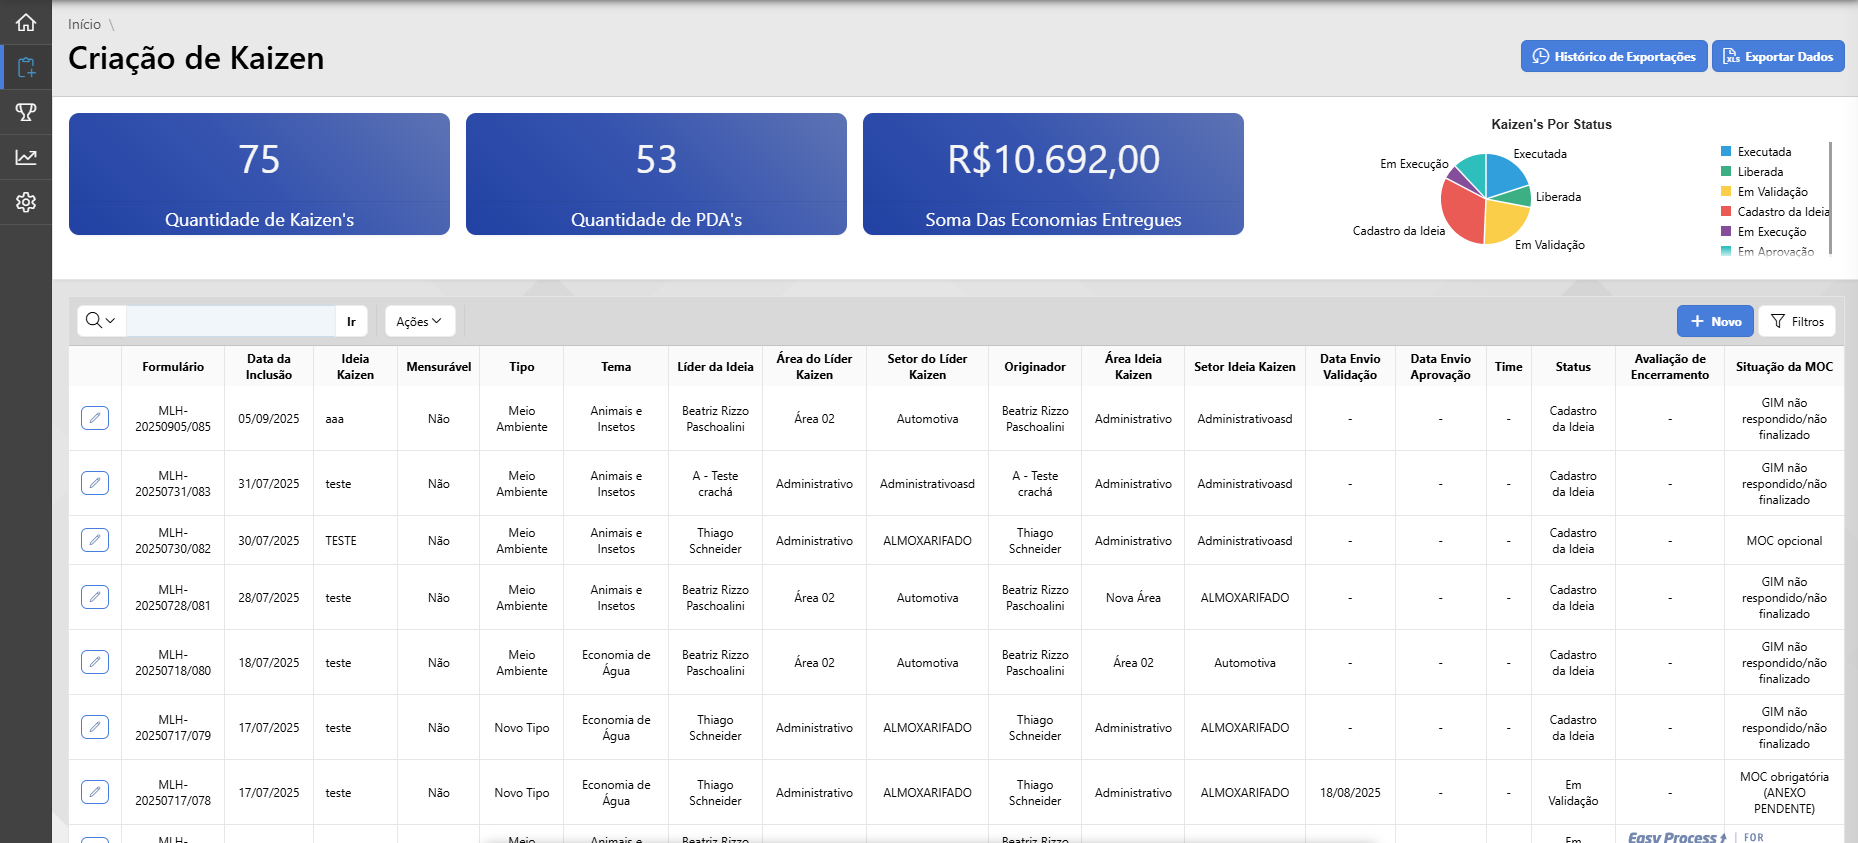
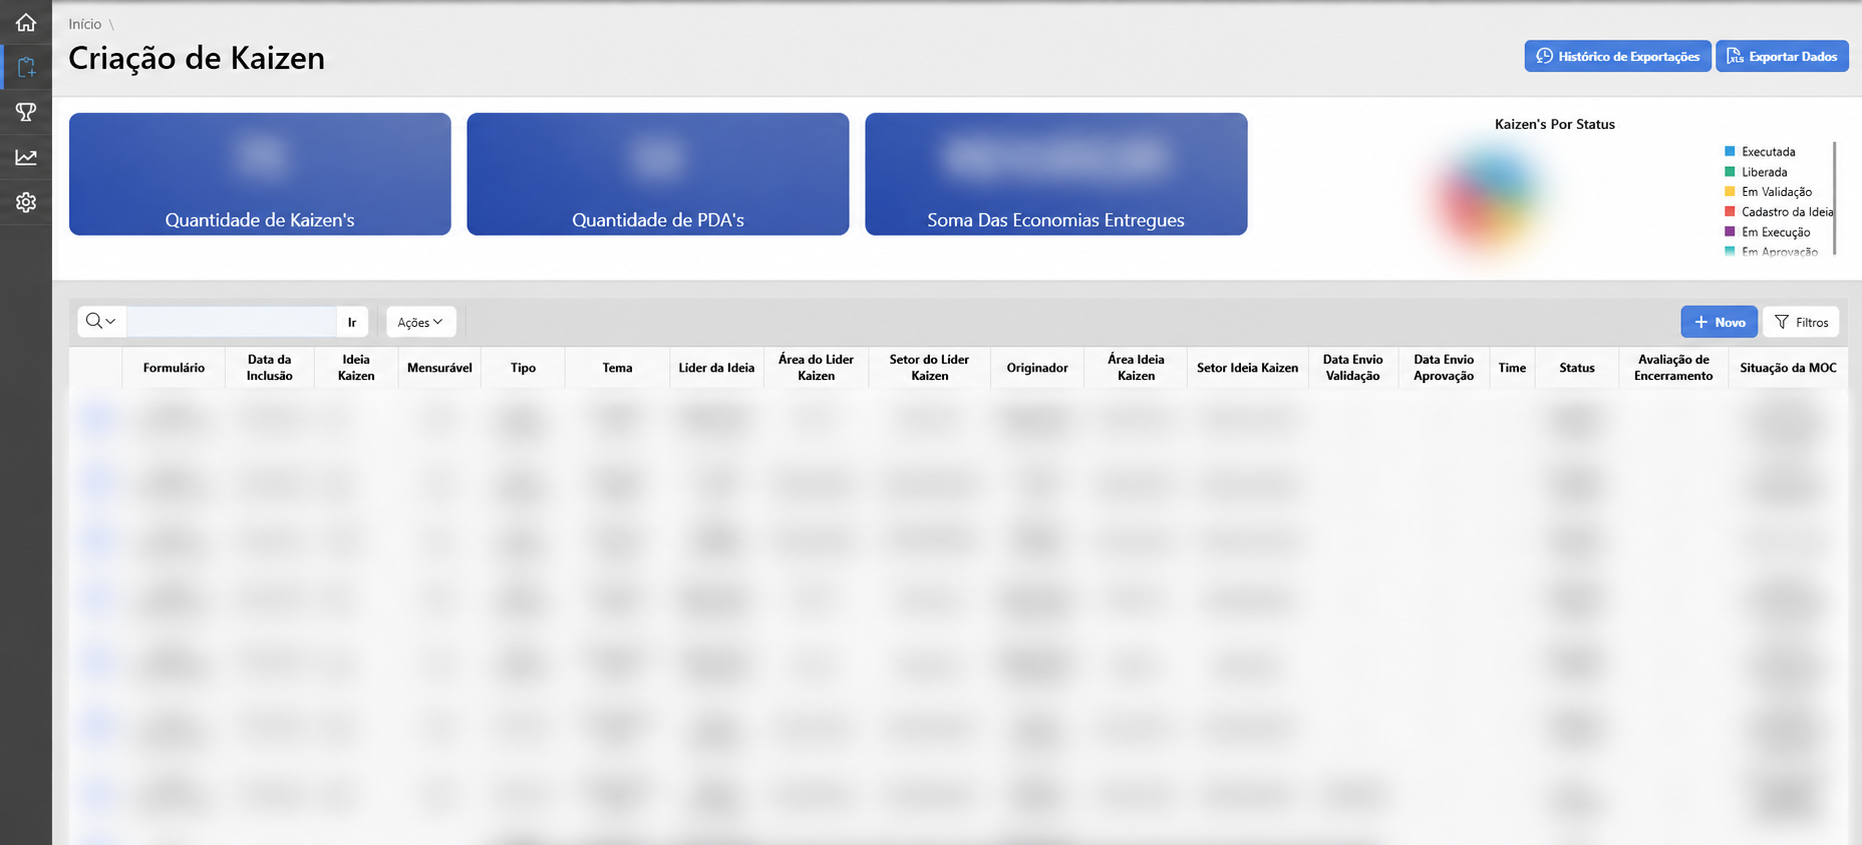
Ajustes para sensura de dados no projeto Kaizen

diff --git a/components/project-data.ts b/components/project-data.ts
@@ -17,15 +17,15 @@ export const projects: Project[] = [
     title: 'Kaizen',
     category: 'Melhoria contínua',
     description: 'Do cadastro de uma ideia ao acompanhamento da execução: gestão de melhorias em uma aplicação Oracle APEX.',
-    image: '/kaizen-screenshots/kaizen-dashboard-real.png',
+    image: '/kaizen-screenshots/kaizen-dashboard-real.png?v=privacy-1',
     technologies: ['Oracle APEX', 'PL/SQL', 'JavaScript'],
     context: 'Organizar ideias de melhoria, acompanhar cada etapa e consultar indicadores em um mesmo sistema.',
     solution: 'Aplicação em Oracle APEX com cadastro de ideias, acompanhamento por status, indicadores, premiação e parametrização.',
     deliverables: ['Cadastro e consulta de ideias de melhoria.', 'Acompanhamento das etapas de validação, aprovação e execução.', 'Painel com quantidades, distribuição por status e economias registradas.', 'Filtros e exportação para consulta dos registros.'],
     gallery: [
-      { src: '/kaizen-screenshots/kaizen-dashboard-real.png', caption: 'Visão geral: indicadores, distribuição por status e registros de Kaizen.' },
-      { src: '/kaizen-screenshots/kaizen-form-real.png', caption: 'Formulário da aplicação Kaizen.' },
-      { src: '/kaizen-screenshots/kaizen-list-real.png', caption: 'Tela de consulta da aplicação Kaizen.' },
+      { src: '/kaizen-screenshots/kaizen-dashboard-real.png?v=privacy-1', caption: 'Visão geral do Kaizen com dados sensíveis ocultados.' },
+      { src: '/kaizen-screenshots/kaizen-form-real.png?v=privacy-1', caption: 'Formulário da aplicação Kaizen com dados sensíveis ocultados.' },
+      { src: '/kaizen-screenshots/kaizen-list-real.png?v=privacy-1', caption: 'Tela de consulta da aplicação Kaizen com dados sensíveis ocultados.' },
     ],
   },
   {
